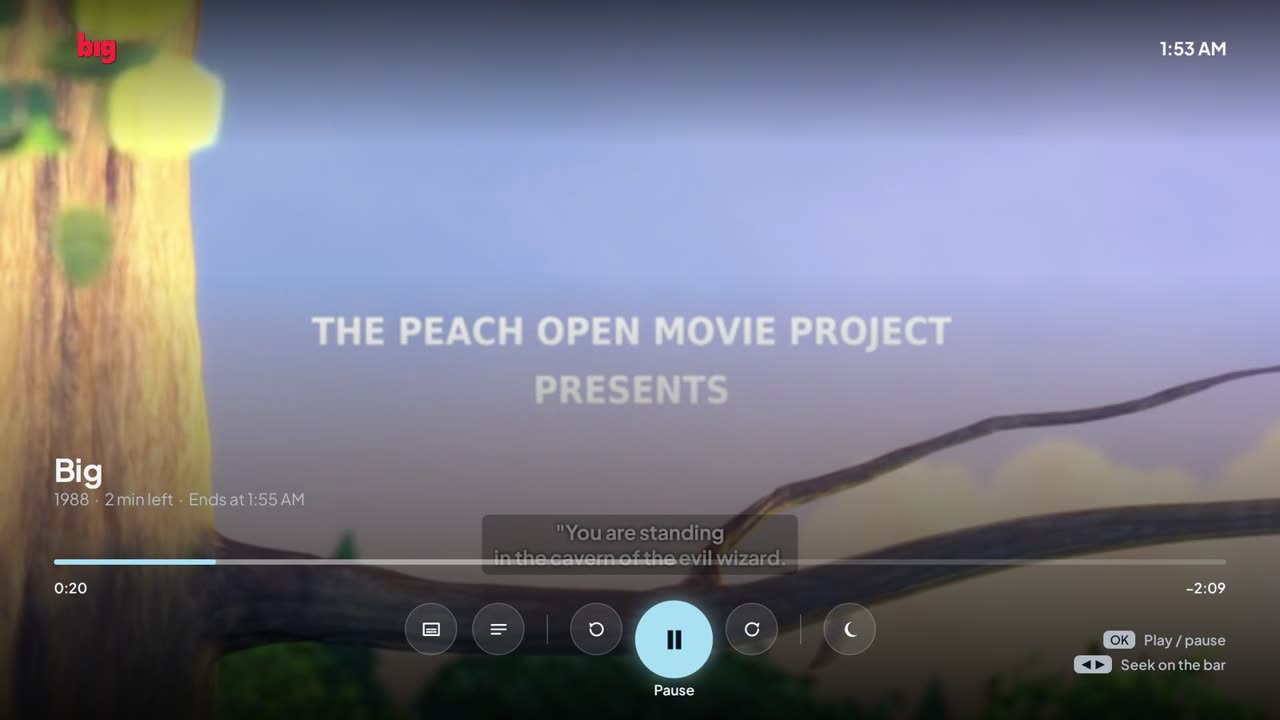
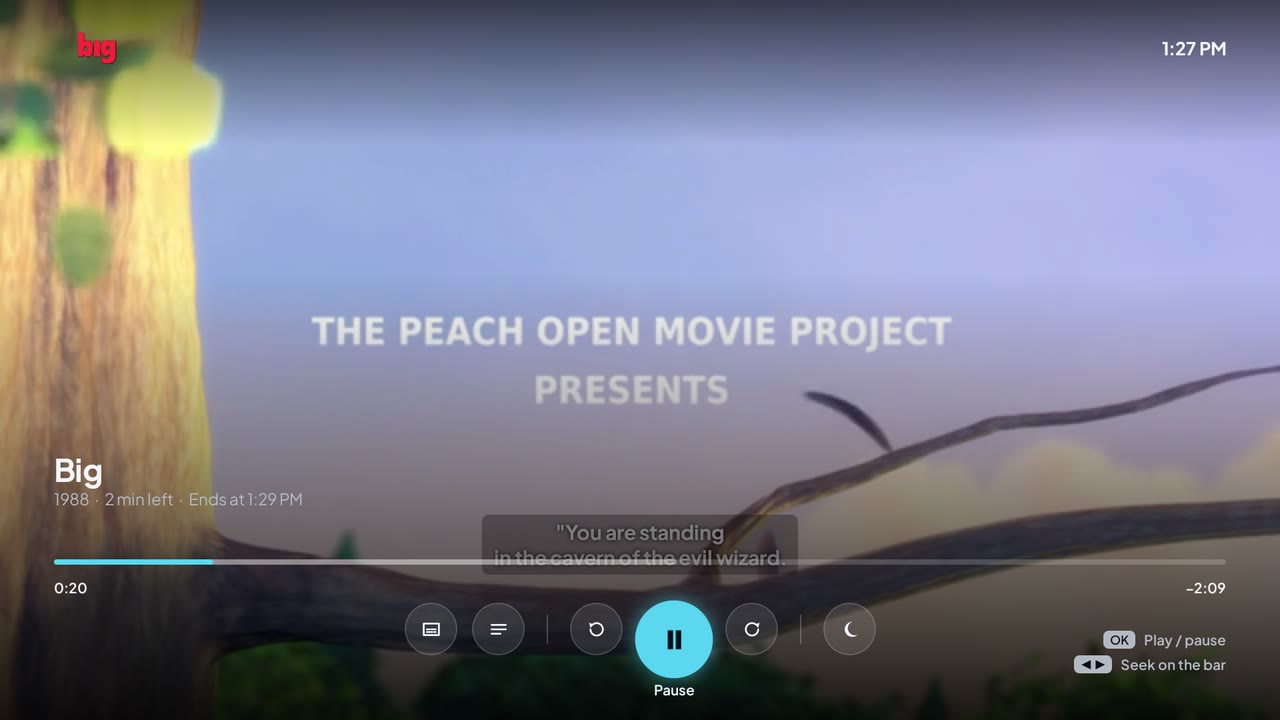
Website: screenshots of the redesigned UI
Home, title page, Top 10, player, search and Settings images and the social
preview now come from the showcase run of 27e0f84 (1280x720 and 1200x600 JPEGs).
The episodes image stays: the season guide didn't change. Alt text and the
Settings caption describe the new screens.

diff --git a/site/index.html b/site/index.html
@@ -58,7 +58,7 @@
           <p class="fineprint">No ads, analytics or tracking. VYRK hosts no media and isn't affiliated with Stremio.</p>
         </div>
         <figure class="tv">
-          <div class="tv-frame"><img src="img/shots/home.jpg" alt="VYRK home screen on a TV: a featured title with its logo and synopsis above Top 10 rows" width="1280" height="720"></div>
+          <div class="tv-frame"><img src="img/shots/home.jpg" alt="VYRK home screen on a TV: icon tabs, a featured title with its logo, synopsis and Watch now, Add to library and More info buttons, above Top 10 rows" width="1280" height="720"></div>
           <div class="tv-stand" aria-hidden="true"></div>
         </figure>
       </div>
@@ -112,12 +112,12 @@
         <h2>See it on the big screen</h2>
         <p class="section-lede">Captures of the real app on an Android TV emulator with live catalogues.</p>
         <div class="gallery">
-          <figure><img src="img/shots/title-page.jpg" alt="Full-screen title page for Dune: Part Two with cast photos and Play, Trailer, library and more buttons" loading="lazy" width="1280" height="720"><figcaption><strong>Title page</strong> full screen, with the cast</figcaption></figure>
+          <figure><img src="img/shots/title-page.jpg" alt="Full-screen title page for Saturday Night with cast photos and Play, Trailer, library and more buttons" loading="lazy" width="1280" height="720"><figcaption><strong>Title page</strong> full screen, with the cast</figcaption></figure>
           <figure><img src="img/shots/episodes.jpg" alt="Game of Thrones episodes with stills and air dates beside the cast and crew" loading="lazy" width="1280" height="720"><figcaption><strong>Episodes</strong> with stills, dates and watched state</figcaption></figure>
           <figure><img src="img/shots/top10.jpg" alt="Top 10 on Netflix rows with large ranking numbers and a title header" loading="lazy" width="1280" height="720"><figcaption><strong>Top 10 rows</strong> per streaming service</figcaption></figure>
           <figure><img src="img/shots/player.jpg" alt="Player with round controls, time left and the time it ends" loading="lazy" width="1280" height="720"><figcaption><strong>Player</strong> with time left and "Ends at"</figcaption></figure>
           <figure><img src="img/shots/search.jpg" alt="Search with an on-screen keyboard and results for movies and series" loading="lazy" width="1280" height="720"><figcaption><strong>Search</strong> with a keyboard and voice</figcaption></figure>
-          <figure><img src="img/shots/settings.jpg" alt="Settings on translucent panels over blurred artwork" loading="lazy" width="1280" height="720"><figcaption><strong>Settings</strong> on glass over your artwork</figcaption></figure>
+          <figure><img src="img/shots/settings.jpg" alt="Settings: a glass sidebar with an icon per group, and the Streams page with segmented choices and On/Off switches" loading="lazy" width="1280" height="720"><figcaption><strong>Settings</strong> with a glass sidebar and compact rows</figcaption></figure>
         </div>
       </div>
     </section>
